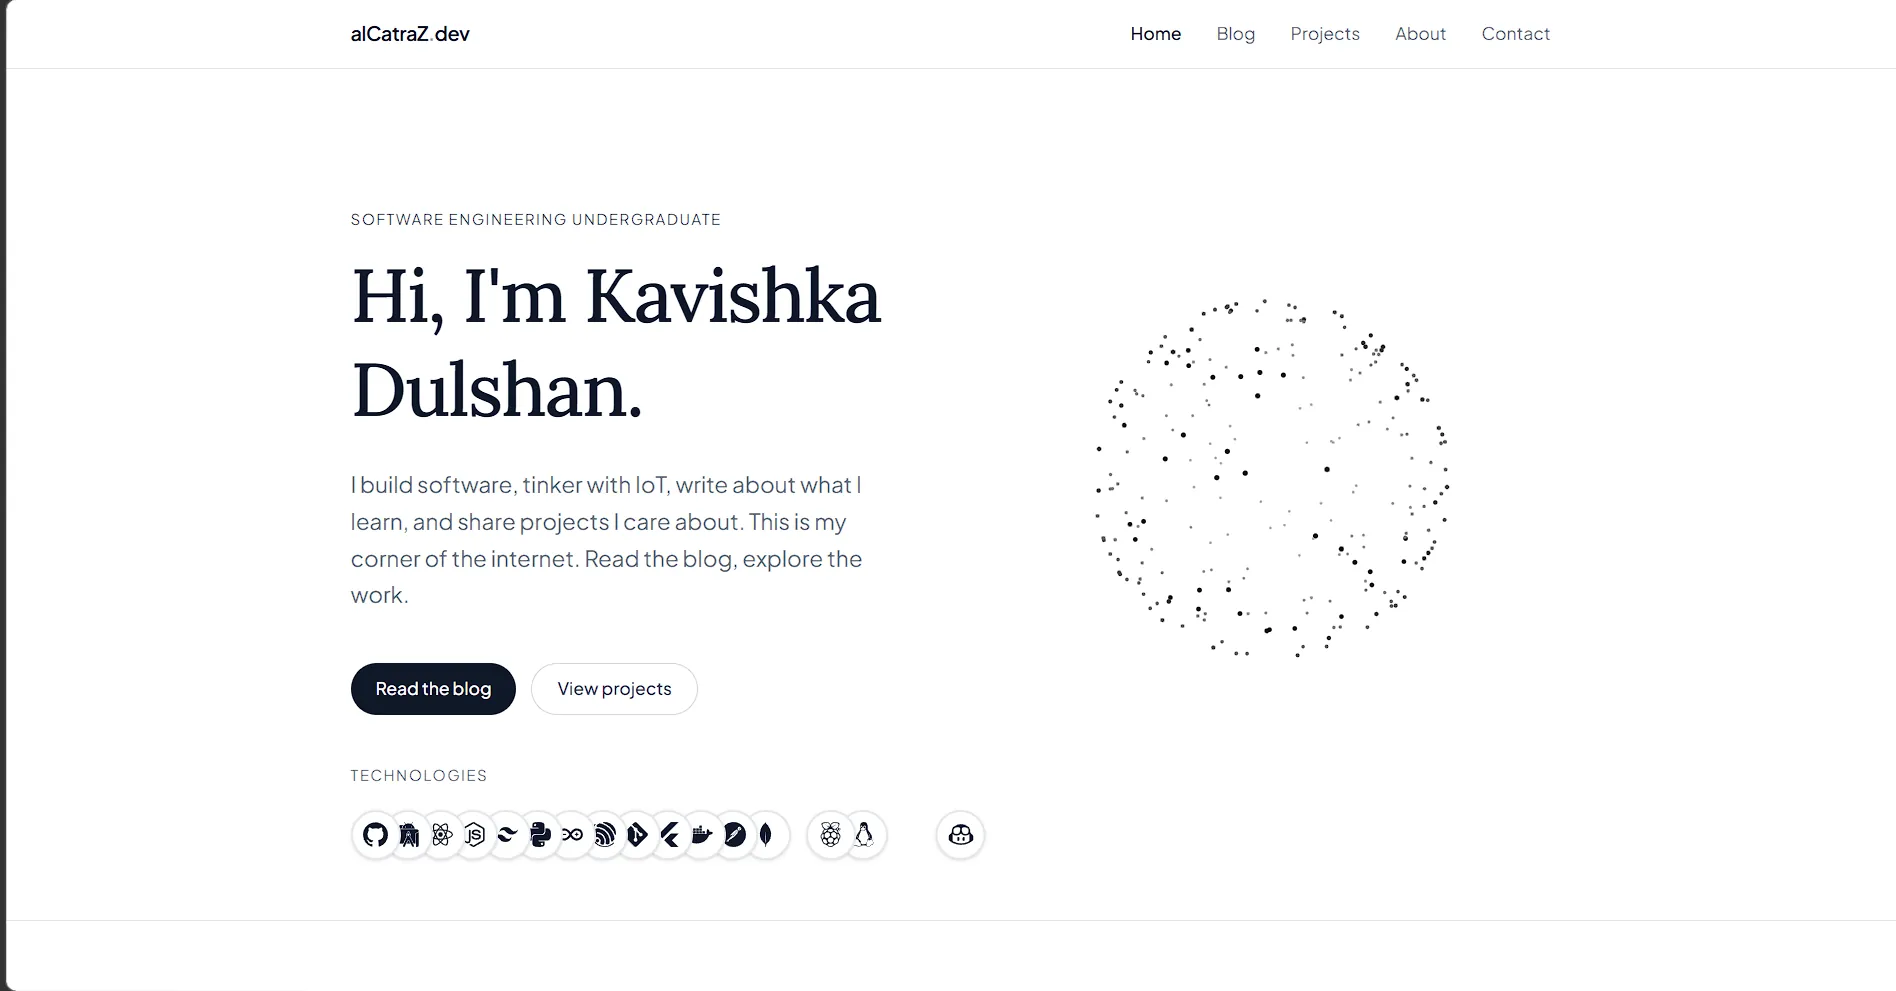
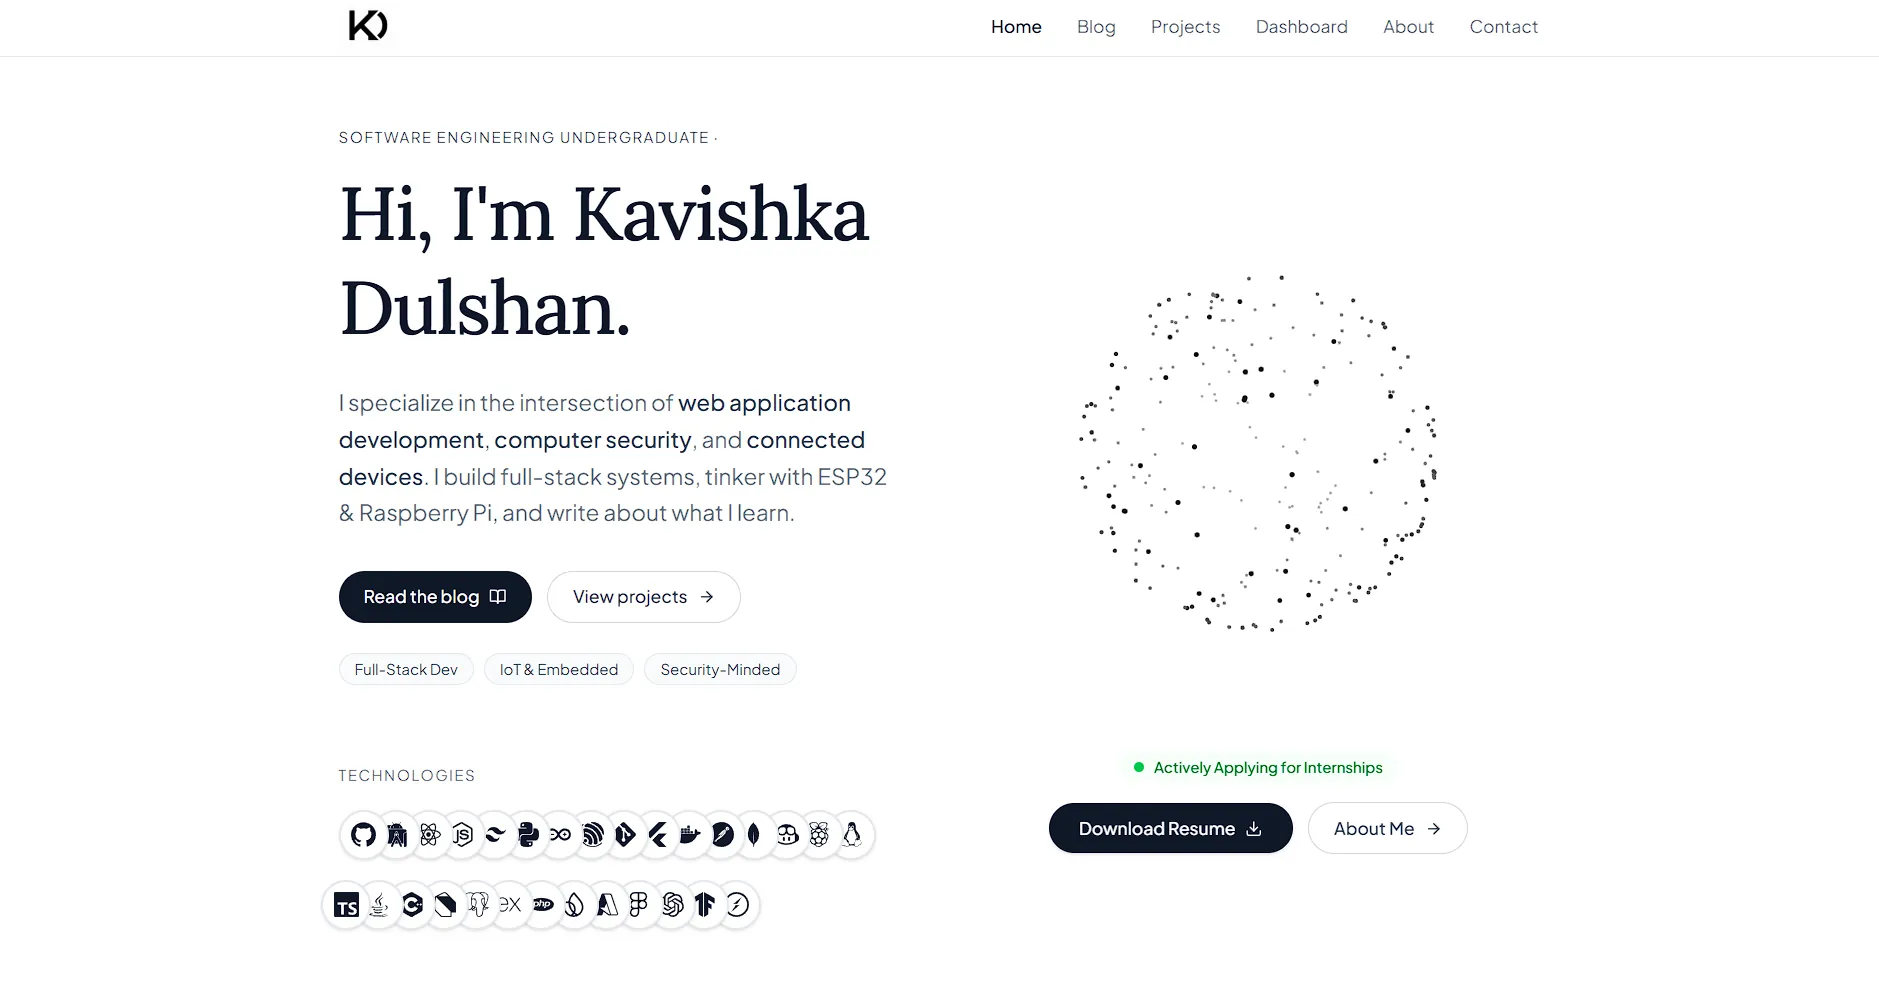
portfolio project post updated

diff --git a/src/components/SEO.jsx b/src/components/SEO.jsx
@@ -54,7 +54,7 @@ export default function SEO({
 
       {/* i18n hreflang alternate links — prevents duplicate-content penalties */}
       {hreflang && hreflang.map(({ lang, href }) => (
-        <link key={lang} rel="alternate" hreflang={lang} href={href} />
+        <link key={lang} rel="alternate" hrefLang={lang} href={href} />
       ))}
 
       {/* Open Graph */}
